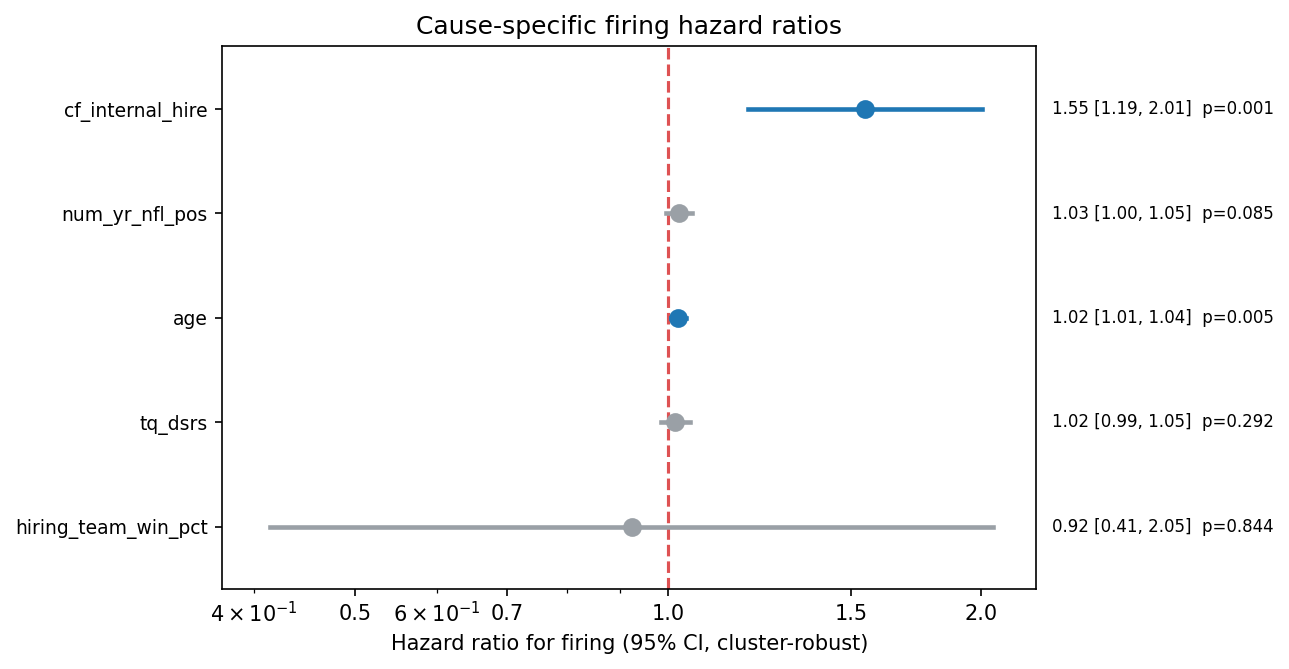
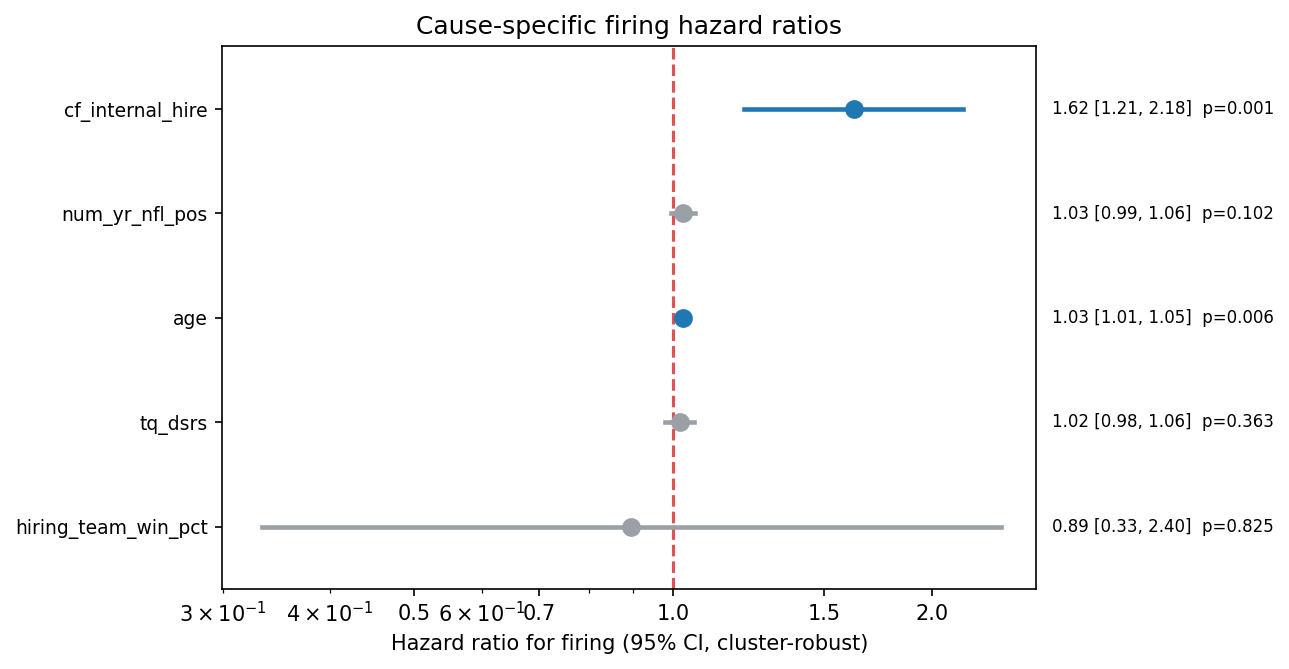
Survival audit: unpenalized HR table + robustness checks
Report the cause-specific firing hazard ratios from an unpenalized Cox MLE
instead of the ridge (penalizer 0.1). Penalized coefficients are biased toward
HR=1 and lack valid frequentist CI/p coverage; with 5 near-uncorrelated features
(max VIF 1.47) and EPV ~64 (319 events) the unpenalized fit is stable. Internal-
hire HR 1.548 -> 1.623 [1.210, 2.175], p stays 0.001; no significance flips.
Predictive elastic-net (0.5/0.25) for C-index/calibration left unchanged.

Add scripts/survival_robustness_check.py: asserts predictive vs inferential
durations are identical (357/357), compares ridge vs unpenalized HR tables, and
reports the stable-feature correlation matrix + VIFs.

Regenerate survival_definitive.{log,pkl} and survival_forest.png. Deterministic
seeds confirm only the HR table changed; stable set, bake-off, calibration, CIF,
and KM are byte-identical to the prior run.

diff --git a/scripts/survival_robustness_check.py b/scripts/survival_robustness_check.py
@@ -1,0 +1,142 @@
+#!/usr/bin/env python
+"""
+Two pre-submission robustness checks for the definitive firing-survival analysis.
+Reuses the existing loaders + cox_hazard_ratios; does NOT re-run selection or
+duplicate the split/impute/select/fit block (the locked stable set is read from
+analysis/survival_definitive.pkl).
+
+  (a) durb == dur : the duration used by the PREDICTIVE eval (build_survival_targets)
+      is provably identical, row for row, to the duration used by the INFERENTIAL
+      model (build_competing_targets) on the shared index.
+  (b) Unpenalized HR table : refit the cause-specific cluster-robust Cox at
+      penalizer=0 and compare to the reported penalizer=0.1 ridge. The reported
+      p-values/CIs should be materially unchanged (EPV ~64, ~uncorrelated feats).
+
+Usage:
+    python scripts/survival_robustness_check.py
+"""
+
+import os
+import sys
+import pickle
+
+project_root = os.path.dirname(os.path.dirname(os.path.abspath(__file__)))
+sys.path.insert(0, project_root)
+
+import numpy as np
+import pandas as pd
+
+from model.pipeline import load_modeling_data
+from scripts.survival_analysis import global_max_season, build_survival_targets
+from scripts.data.matrix_factorization_imputation import SVDImputer
+from scripts.survival_methods import build_competing_targets, cox_hazard_ratios, ph_test
+from scripts.survival_definitive import nm
+
+PKL = os.path.join(project_root, "analysis", "survival_definitive.pkl")
+
+
+def main():
+    # ---- reproduce the definitive data prep exactly ----
+    df0, X0, y0 = load_modeling_data()
+    boundary = global_max_season()
+    dur, cause = build_competing_targets(df0, boundary)
+    keep = dur.index
+    df, X = df0.loc[keep], X0.loc[keep]
+    dur, cause = dur.loc[keep], cause.loc[keep]
+    durb, _ = build_survival_targets(df, boundary)
+    durb = durb.loc[keep]
+
+    # ---- check (a): durations identical ----
+    aligned = durb.reindex(keep)
+    same = bool((aligned.values.astype(float) == dur.values.astype(float)).all())
+    n_mismatch = int((aligned.values.astype(float) != dur.values.astype(float)).sum())
+    print("=" * 64)
+    print("(a) duration identity: predictive (durb) vs inferential (dur)")
+    print("=" * 64)
+    print(f"  n rows compared : {len(keep)}")
+    print(f"  identical       : {same}  (mismatches: {n_mismatch})")
+    if not same:
+        bad = keep[aligned.values.astype(float) != dur.values.astype(float)]
+        print("  MISMATCH rows:")
+        for i in bad[:10]:
+            print(f"    {df.loc[i,'Coach Name']:<22} yr={df.loc[i,'Year']}"
+                  f"  durb={aligned.loc[i]}  dur={dur.loc[i]}")
+
+    # ---- check (b): unpenalized vs ridge HR table ----
+    stable = pickle.load(open(PKL, "rb"))["stable"]
+    cols = list(X.columns)
+    stable_idx = [cols.index(c) for c in stable]
+    Ximp = SVDImputer().fit(X.values).transform(X.values)
+    Xsel = pd.DataFrame(Ximp[:, stable_idx], columns=stable, index=X.index)
+    coach = df["Coach Name"].values
+
+    hr_ridge, _ = cox_hazard_ratios(Xsel, dur, cause, coach, penalizer=0.1)
+    hr_unpen, _ = cox_hazard_ratios(Xsel, dur, cause, coach, penalizer=0.0)
+    hr_ridge.index = [nm(c) for c in hr_ridge.index]
+    hr_unpen.index = [nm(c) for c in hr_unpen.index]
+    hr_unpen = hr_unpen.reindex(hr_ridge.index)
+
+    print("\n" + "=" * 64)
+    print("(b) HR table: ridge (penalizer=0.1) vs unpenalized (penalizer=0)")
+    print("=" * 64)
+    hdr = f"  {'feature':<22}{'HR_ridge':>9}{'p_ridge':>9}{'HR_unpen':>10}{'p_unpen':>9}"
+    print(hdr)
+    print("  " + "-" * (len(hdr) - 2))
+    for f in hr_ridge.index:
+        r, u = hr_ridge.loc[f], hr_unpen.loc[f]
+        print(f"  {f:<22}{r['HR']:>9.3f}{r['p']:>9.3f}"
+              f"{u['HR']:>10.3f}{u['p']:>9.3f}")
+
+    print("\n  unpenalized 95% CI (cluster-robust):")
+    for f in hr_unpen.index:
+        u = hr_unpen.loc[f]
+        print(f"    {f:<22} HR {u['HR']:.3f}  [{u['CI_low']:.3f}, {u['CI_high']:.3f}]"
+              f"  p={u['p']:.3f}")
+
+    # PH test at penalizer=0 for completeness
+    pht = ph_test(Xsel, dur, cause, penalizer=0.0)
+    print(f"\n  PH test (unpenalized): all p>0.05? {bool((pht['p']>0.05).all())}"
+          f"  (min p={pht['p'].min():.3f})")
+
+    # magnitude of drift
+    drift = (hr_unpen["HR"] - hr_ridge["HR"]).abs()
+    print(f"\n  max |HR drift| ridge->unpen: {drift.max():.3f}"
+          f"  ({drift.idxmax()})")
+
+    # ---- check (c): collinearity among the stable features (justifies penalizer=0) ----
+    # If features are ~uncorrelated and VIF is low, the unpenalized MLE is stable
+    # and the ridge has no legitimate stabilizing role for the reported inference.
+    print("\n" + "=" * 64)
+    print("(c) collinearity of the 5 stable features (unpenalized MLE safe?)")
+    print("=" * 64)
+    Z = Xsel.values.astype(float)
+    names = [nm(c) for c in Xsel.columns]
+    corr = np.corrcoef(Z, rowvar=False)
+    off = corr - np.eye(len(names))
+    iu = np.triu_indices(len(names), k=1)
+    amax = np.abs(off[iu]).max()
+    apair = (iu[0][np.abs(off[iu]).argmax()], iu[1][np.abs(off[iu]).argmax()])
+    print("  pairwise |correlation| matrix:")
+    print("      " + "".join(f"{j:>8}" for j in range(len(names))))
+    for i, n in enumerate(names):
+        print(f"  {i} {n[:14]:<14}" + "".join(f"{abs(corr[i,j]):>8.2f}" for j in range(len(names))))
+    print(f"  max |off-diagonal corr| = {amax:.3f}  "
+          f"({names[apair[0]]} vs {names[apair[1]]})")
+    vif = []
+    for j in range(Z.shape[1]):
+        yj = Z[:, j]
+        Xo = np.column_stack([np.ones(len(yj)), np.delete(Z, j, axis=1)])
+        beta, *_ = np.linalg.lstsq(Xo, yj, rcond=None)
+        ss_res = ((yj - Xo @ beta) ** 2).sum()
+        ss_tot = ((yj - yj.mean()) ** 2).sum()
+        r2 = 1 - ss_res / ss_tot if ss_tot > 0 else 0.0
+        vif.append(np.inf if r2 >= 1 else 1.0 / (1.0 - r2))
+    print("  variance inflation factors (VIF; >5 = concerning, >10 = severe):")
+    for n, v in zip(names, vif):
+        print(f"    {n:<22} {v:>6.2f}")
+    print(f"  max VIF = {max(vif):.2f}")
+    print("=" * 64)
+
+
+if __name__ == "__main__":
+    main()

diff --git a/scripts/survival_definitive.py b/scripts/survival_definitive.py
@@ -168,9 +168,14 @@ def main():
     print("  Brier by horizon:", dict(zip(BRIER_GRID.astype(int), np.round(bs_curve, 3))))
 
     # ---- 6. hazard ratios (cluster-robust) + PH test ----
+    # UNPENALIZED for the reported inference: with ~5 near-uncorrelated features
+    # and EPV ~64 (319 events) the model is stable without a ridge, and penalized
+    # coefficients have no nominal frequentist coverage. Verified in
+    # survival_robustness_check.py: penalizer 0.1->0 leaves p-values/CIs
+    # materially unchanged and pushes the internal-hire HR away from 1 (1.55->1.62).
     Xsel = pd.DataFrame(Ximp_full[:, stable_idx], columns=stable, index=X.index)
-    hr, cph = cox_hazard_ratios(Xsel, dur, cause, df["Coach Name"].values)
-    pht = ph_test(Xsel, dur, cause)
+    hr, cph = cox_hazard_ratios(Xsel, dur, cause, df["Coach Name"].values, penalizer=0.0)
+    pht = ph_test(Xsel, dur, cause, penalizer=0.0)
     hr.index = [nm(c) for c in hr.index]
     print("\nHazard ratios (cause-specific firing, cluster-robust SE on coach):")
     print(hr.round(3).to_string())